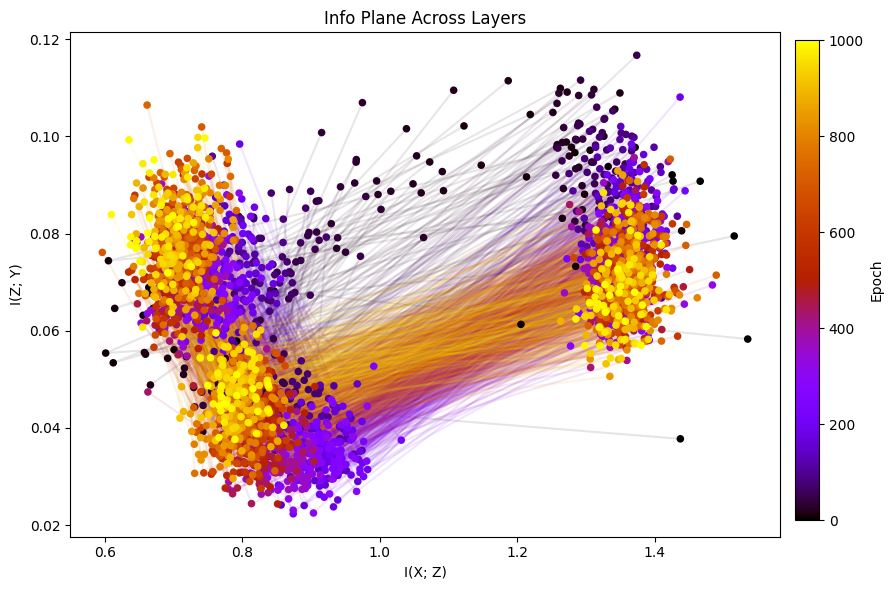
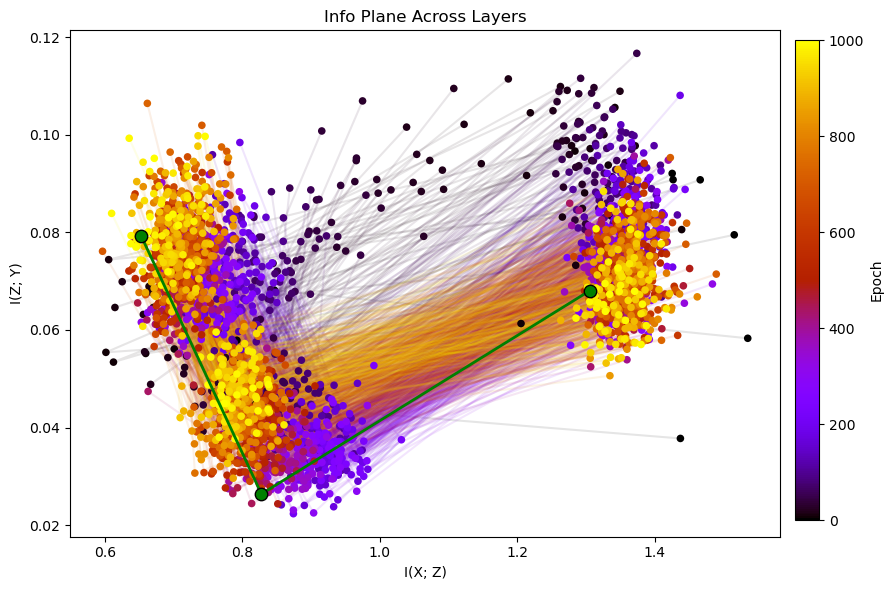
added tsne, pca plots

diff --git a/README.md b/README.md
@@ -32,33 +32,32 @@
     
     |  # Layers  | 3         | 4         | 5         | 6         | 7         | 8         | 9         | 10        |
     |------------|-----------|-----------|-----------|-----------|-----------|-----------|-----------|-----------|
-    | AUC Score  | 0.0000    | 0.0000    | 0.0000    | 0.0000    | 0.0000    | 0.9052    | 0.8959    | 0.8944    |
+    | AUC Score  | 0.9055    | 0.8931    | 0.9027    | 0.8945    | 0.9056    | 0.9052    | 0.8959    | 0.8944    |
 
     #### Classifier Accuacy - Batch Size = 256
 
     | # Layers             | 3         | 4         | 5         | 6         | 7         | 8         | 9         | 10        |
     |----------------------|-----------|-----------|-----------|-----------|-----------|-----------|-----------|-----------|
-    | Training             | 0.8593    | 0.8663    | 0.8846    | 0.8759    | 0.0000    | 0.8506    | 0.8872    | 0.8631    |
-    | Validation           | 0.8233    | 0.8070    | 0.8302    | 0.8047    | 0.0000    | 0.8070    | 0.8209    | 0.8093    |
-    | Testing              | 0.7977    | 0.8023    | 0.7837    | 0.7814    | 0.0000    | 0.7814    | 0.8000    | 0.7884    |
+    | Training             | 0.8593    | 0.8663    | 0.8846    | 0.8759    | 0.9110    | 0.8506    | 0.8872    | 0.8631    |
+    | Validation           | 0.8233    | 0.8070    | 0.8302    | 0.8047    | 0.8674    | 0.8070    | 0.8209    | 0.8093    |
+    | Testing              | 0.7977    | 0.8023    | 0.7837    | 0.7814    | 0.7930    | 0.7814    | 0.8000    | 0.7884    |
 
     #### AUC Score - Batch Size = 256
 
     |  # Layers  | 3         | 4         | 5         | 6         | 7         | 8         | 9         | 10        |
     |------------|-----------|-----------|-----------|-----------|-----------|-----------|-----------|-----------|
-    | AUC Score  | 0.9001    | 0.8980    | 0.9018    | 0.8875    | 0.0000    | 0.8805    | 0.8920    | 0.8895    |
+    | AUC Score  | 0.9001    | 0.8980    | 0.9018    | 0.8875    | 0.9143    | 0.8805    | 0.8920    | 0.8895    |
 
 
     #### Best Epoch
     | Batch Size | # Layers  | 3         | 4         | 5         | 6         | 7         | 8         | 9         | 10        |
     |------------|-----------|-----------|-----------|-----------|-----------|-----------|-----------|-----------|-----------|
     | 128        |           | 370       | 107       | 173       | 77        | 57        | 93        | 67        | 34        |
-    | 256        |           | 264       | 155       | 187       | 96        |           | 29        | 68        | 43        |
-
+    | 256        |           | 264       | 155       | 187       | 96        | 195       | 29        | 68        | 43        |
 
 ## Training & MI Calculation 
 
-run_gnn.py --train=1 --num_layers=3 --model=gcn
+python3 run_gnn.py --train=1 --num_layers=3 --model=gcn --batch_size=128
 
 - Creates ./MI_logs/{args.model}/mi_log_{args.num_layers}_layers.txt file for logging MI values for each I(X;Z), I(Z;Y).
 - Mutual Information Estimator from https://doi.org/10.48550/arXiv.1801.09125. 
@@ -135,4 +134,48 @@ python3 utils/mi_plots.py --file_name=MI_logs/gcn/run_results_3_layer --model=gc
 #### GCN 10 Layer - Batch Size =  256 
 
 ![GCN 10 Layer](plots/gcn_256/infoplane_mi_log_10_256_layers_layers.png)
+
+## TSNE, PCA Plots
+
+<style>
+  table {
+    border-collapse: collapse;
+    width: 100%;
+  }
+  th, td {
+    padding: 10px;
+    text-align: center;
+    vertical-align: top; /* Ensures alignment at the top */
+  }
+  img {
+    display: block;
+  }
+</style>
+
+<table>
+  <tr>
+    <th>3 Layer</th>
+    <th>4 Layer</th>
+    <th>5 Layer</th>
+    <th>6 Layer</th>
+    <th>7 Layer</th>
+    <th>8 Layer</th>
+    <th>9 Layer</th>
+    <th>10 Layer</th>
+  </tr>
+  <tr>
+    <td><img src="plots/tsne_pca/tsne_pca_3_128.png" alt="TSNE/ PCA 3" width="150"></td>
+    <td><img src="plots/tsne_pca/tsne_pca_4_128.png" alt="TSNE/ PCA 4" width="150"></td>
+    <td><img src="plots/tsne_pca/tsne_pca_5_128.png" alt="TSNE/ PCA 5" width="150"></td>
+    <td><img src="plots/tsne_pca/tsne_pca_6_128.png" alt="TSNE/ PCA 6" width="150"></td>
+    <td><img src="plots/tsne_pca/tsne_pca_7_128.png" alt="TSNE/ PCA 7" width="150"></td>
+    <td><img src="plots/tsne_pca/tsne_pca_8_128.png" alt="TSNE/ PCA 8" width="150"></td>
+    <td><img src="plots/tsne_pca/tsne_pca_9_128.png" alt="TSNE/ PCA 9" width="150"></td>
+    <td><img src="plots/tsne_pca/tsne_pca_10_128.png" alt="TSNE/ PCA 10" width="150"></td>
+  </tr>
+</table>
+
+
+
+
 
